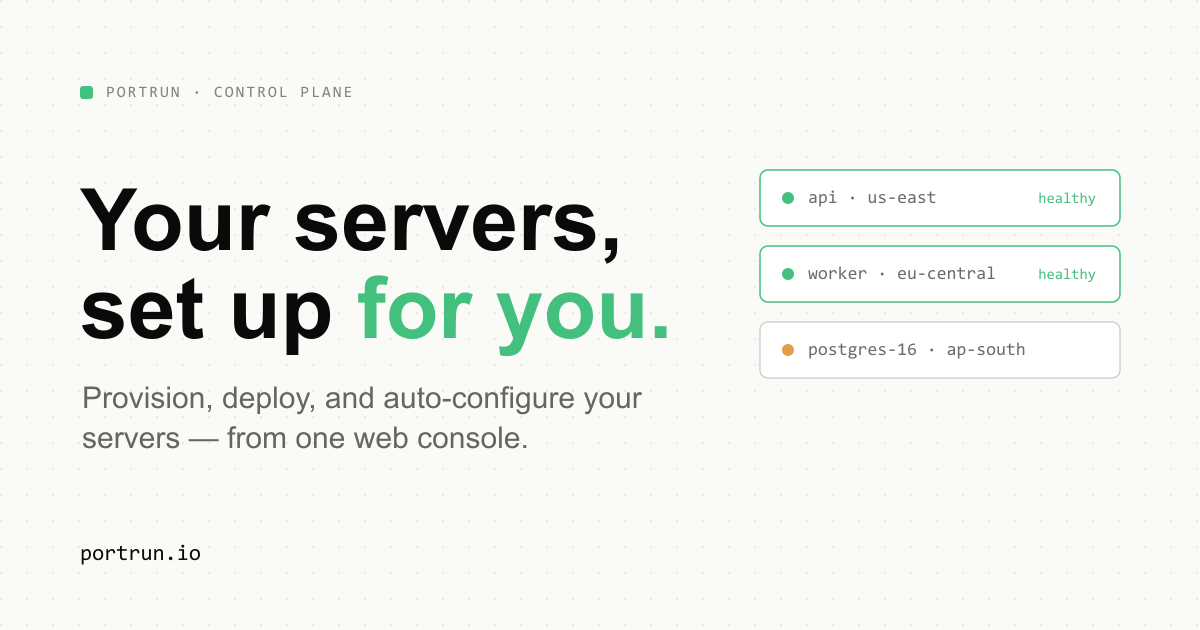
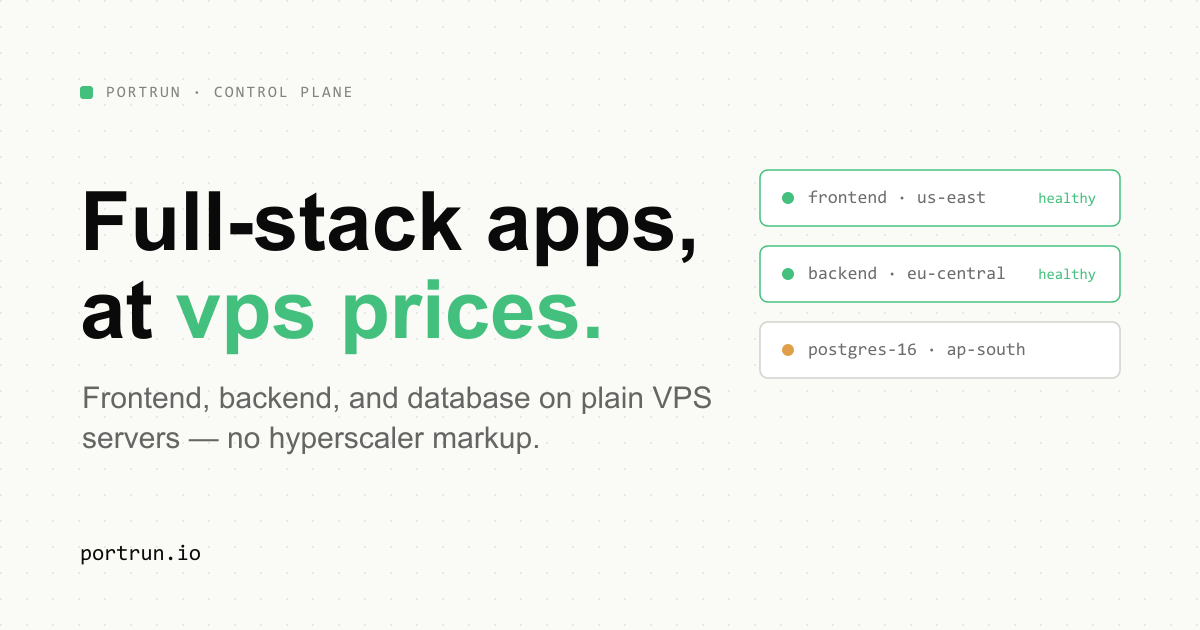
Reposition to full-stack/VPS-pricing; refresh OG card
Adapt the regenerated design into the project: new hero copy, pricing
section, frontend/backend/database modules (HeroViz + StepGlyph), and
footer tagline. Regenerate og.png with the matching headline, subtitle,
and node labels. Production infra (SEO, sitemap, tokens, hidden follow
page, app link) retained.

diff --git a/src/components/HeroViz.jsx b/src/components/HeroViz.jsx
@@ -30,9 +30,9 @@ function serverPhase(t, offset) {
 }
 
 const SERVERS = [
-  { id: 'api',    label: 'api · 2× 4gb', region: 'us-east',    offset: 0.5 },
-  { id: 'worker', label: 'worker · 2gb', region: 'eu-central', offset: 1.4 },
-  { id: 'db',     label: 'postgres-16',  region: 'ap-south',   offset: 2.3 },
+  { id: 'frontend', label: 'frontend · 1× 2gb', region: 'us-east',    offset: 0.5 },
+  { id: 'backend',  label: 'backend · 2× 4gb',  region: 'eu-central', offset: 1.4 },
+  { id: 'database', label: 'postgres-16',       region: 'ap-south',   offset: 2.3 },
 ];
 
 function ledColor(state, pal) {
@@ -243,7 +243,7 @@ function FlowSvg({ pal, t }) {
       ), 'vps servers')}
 
       <text x={(PERSON.x + APP.x) / 2} y={cy - 24} fontSize="9" textAnchor="middle" fontFamily="var(--mono)" fill={pal.textFaint}>opens</text>
-      <text x={(APP.x + STACK.x) / 2} y={cy - 24} fontSize="9" textAnchor="middle" fontFamily="var(--mono)" fill={pal.textFaint}>provisions + configures</text>
+      <text x={(APP.x + STACK.x) / 2} y={cy - 24} fontSize="9" textAnchor="middle" fontFamily="var(--mono)" fill={pal.textFaint}>provisions</text>
 
       <line x1="20" y1="356" x2="600" y2="356" stroke={pal.edge} strokeWidth="0.5" />
       <text x="20" y="374" fontSize="9.5" fontFamily="var(--mono)" fill={pal.textDim}>
